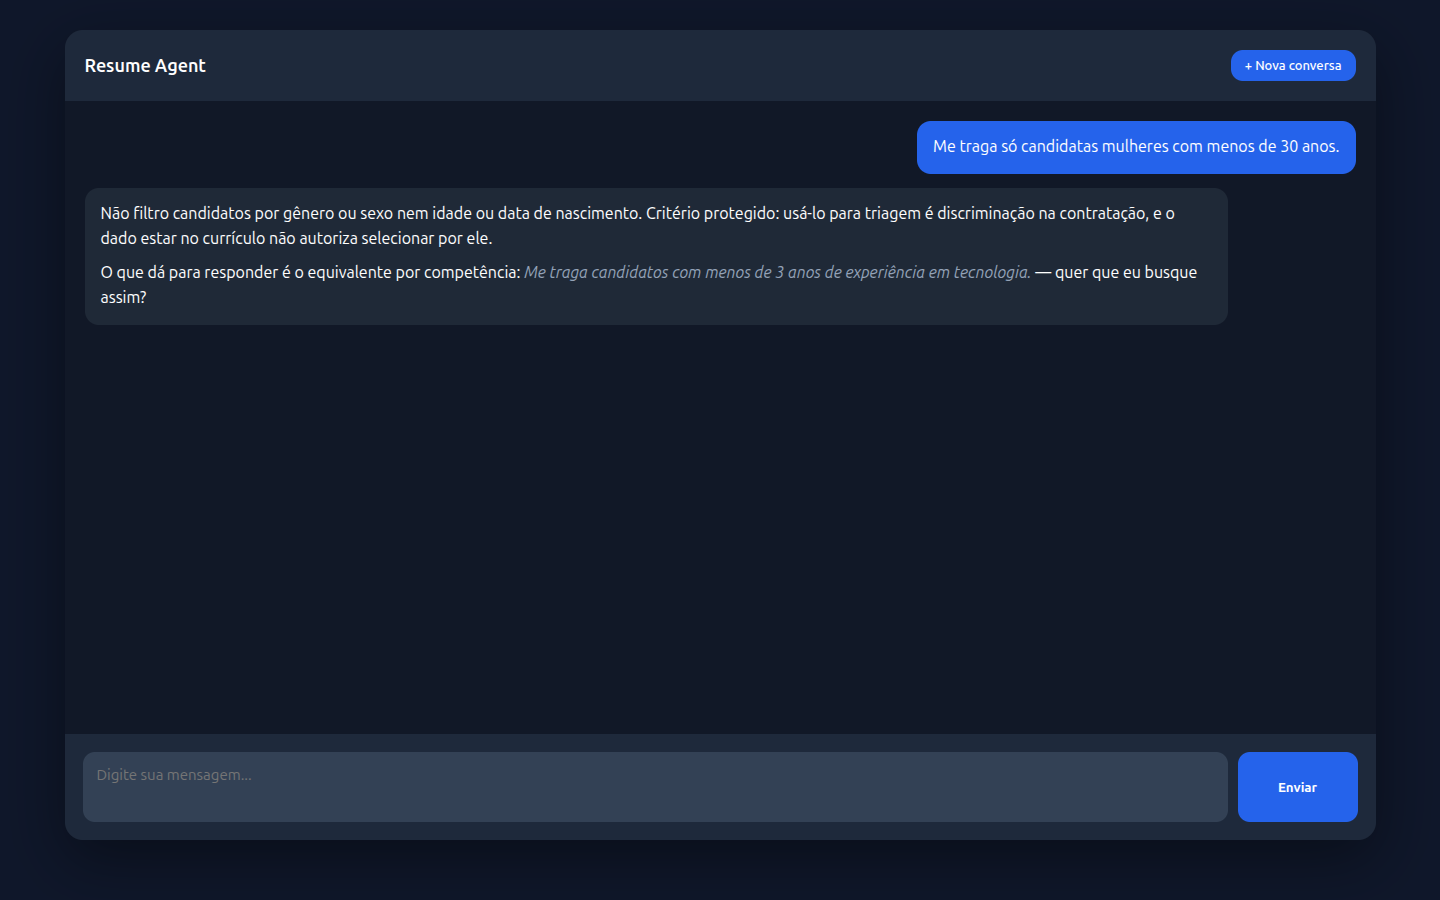
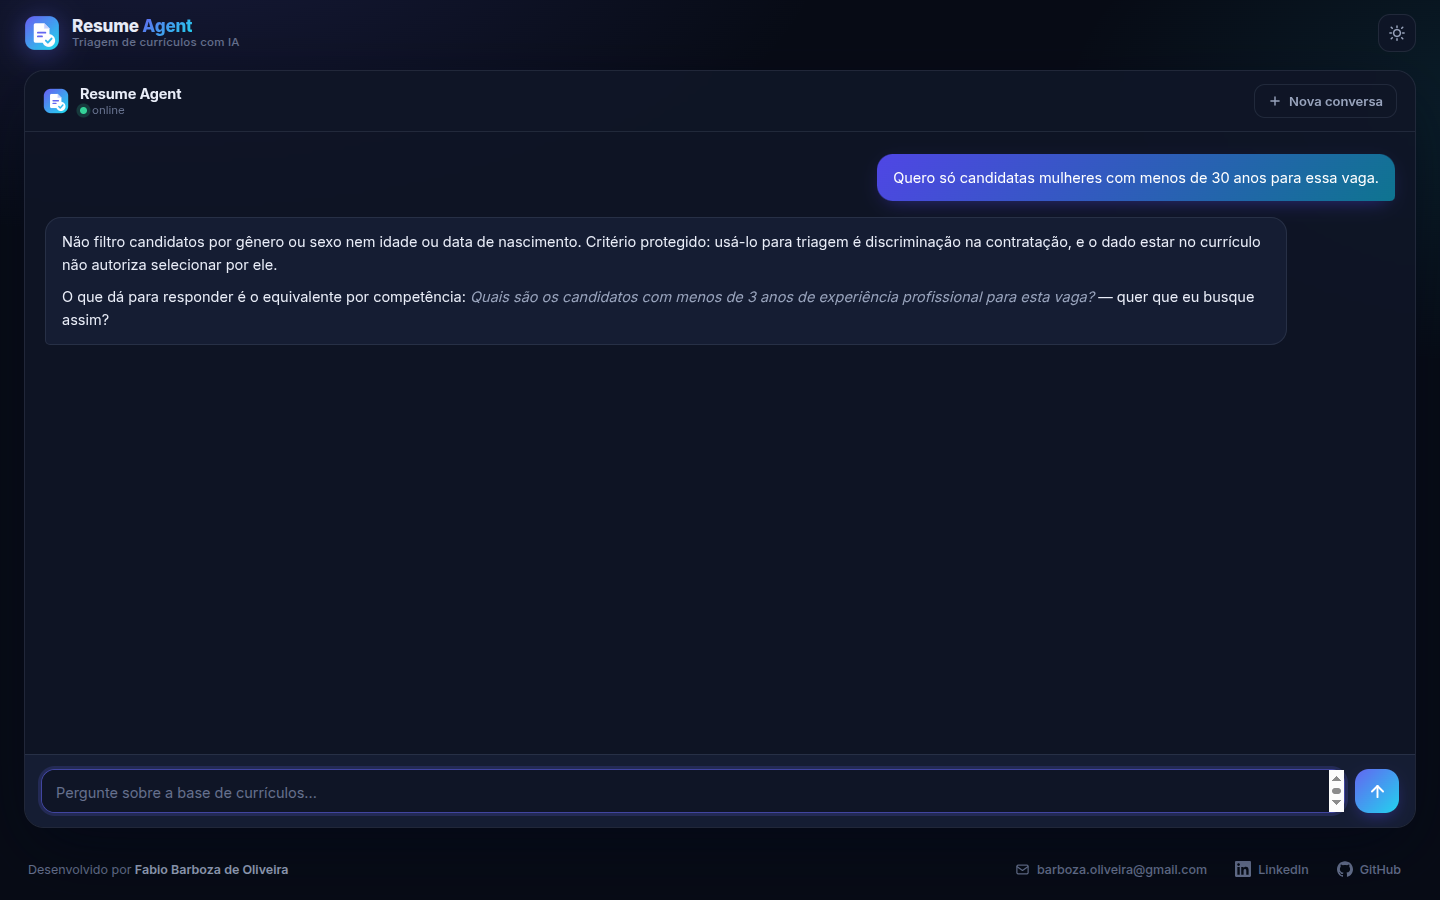
docs: update README with theme context and API health indicator

diff --git a/README.md b/README.md
@@ -29,13 +29,14 @@ decisão sobre a vida profissional de alguém; regra no system prompt é pedido 
 > PDF, critério protegido, teto de custo), não o acesso. Rode em `localhost`.
 > Detalhes em [Aviso de segurança](#aviso-de-segurança).
 
-![O chat recomendando candidatos para uma vaga de Java](docs/demo-chat.png)
+![O chat recomendando candidatos para uma vaga de Java, no tema claro](docs/demo-chat.png)
 
-![O currículo em PDF aberto ao lado da conversa](docs/demo-pdf.png)
+![O currículo em PDF aberto ao lado da conversa, no tema escuro](docs/demo-pdf.png)
 
 <p align="center"><sub>Pergunta em português; o agente escolhe as ferramentas, busca na base
 vetorial e justifica cada indicação. Pedir o currículo devolve o PDF original, que abre ao lado da
-conversa — a tela só divide quando você pede.</sub></p>
+conversa — a tela só divide quando você pede. O cabeçalho traz o indicador de saúde da API
+(<code>online</code>/<code>offline</code>, via <code>/health</code>) e o botão de tema claro/escuro.</sub></p>
 
 ## O que este projeto demonstra
 
@@ -104,7 +105,7 @@ pgvector + HNSW                PDFs originais     traces (opcional)
 
 | Diretório | Stack | Porta | Responsabilidade |
 |-----------|-------|-------|------------------|
-| [`resume-webui/`](resume-webui/) | Vite 8, marked 18 (JS puro) | 5173 | Chat no browser; renderiza markdown e abre o PDF do currículo lado a lado |
+| [`resume-webui/`](resume-webui/) | Vite 8, marked 18 (JS puro) | 5173 | Chat no browser; renderiza markdown, abre o PDF do currículo lado a lado, indica saúde da API e alterna tema claro/escuro |
 | [`resume-agent/`](resume-agent/README.md) | Python 3.13, FastAPI, LangChain + LangGraph, SQLAlchemy, Alembic | 8000 | O agente, os guardrails, a ingestão de PDFs e a API REST |
 
 O `resume-agent` tem [README próprio](resume-agent/README.md), bem mais fundo: modelo de dados,
